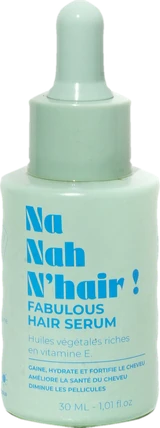
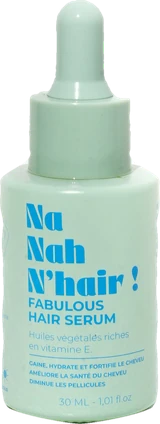
Modifications 66 et 67 : flacon Fabulous (photo sur fond blanc pour la fiche et la boutique, détourage fidèle ailleurs)
Claude-Session: https://claude.ai/code/session_01KwQkw9StVFPJQs6Mch67k4

diff --git a/na-nah-nhair/components/PhotoSlot.tsx b/na-nah-nhair/components/PhotoSlot.tsx
@@ -4,7 +4,10 @@ import { themeClasses } from "@/lib/theme-classes";
 
 // photo.file : nom de la photo dans assets/images/ ; si « responsive », versions générées par
 // scripts/preparer-photos.py dans public/images/produits/ (400, 800, 1200 px, WebP + JPG, format 4:5)
-type Photo = { file: string; alt: string; available: boolean; responsive?: string; cutout?: ProductTheme };
+// studio : photo carrée sur fond blanc pur (modification 66), versions studio-400…1400 dans public/images/produits/
+type Photo = { file: string; alt: string; available: boolean; responsive?: string; cutout?: ProductTheme; studio?: string };
+
+const STUDIO_WIDTHS = [400, 800, 1200, 1400];
 
 const WIDTHS = [400, 800, 1200];
 
@@ -33,6 +36,31 @@ export default function PhotoSlot({
       <div className={`relative overflow-hidden bg-white ${className}`}>
         {/* eslint-disable-next-line @next/next/no-img-element -- photo du back-office, servie telle quelle */}
         <img src={src} alt={photo.alt} loading={loading} className="absolute inset-0 h-full w-full object-contain" />
+      </div>
+    );
+  }
+
+  // Photo sur fond blanc pur dans le panneau blanc (modification 66) : image carrée remplissant la hauteur du
+  // panneau (côtés blancs rognés, invisibles sur le blanc), flacon à environ 80 % de la hauteur, centré
+  if (photo.available && photo.studio) {
+    const set = (ext: string) => STUDIO_WIDTHS.map((w) => `/images/produits/${photo.studio}-${w}.${ext} ${w}w`).join(", ");
+    return (
+      <div className={`relative overflow-hidden bg-white ${className}`}>
+        <picture>
+          <source type="image/webp" srcSet={set("webp")} sizes={sizes} />
+          <img
+            src={`/images/produits/${photo.studio}-800.jpg`}
+            srcSet={set("jpg")}
+            sizes={sizes}
+            width={1400}
+            height={1400}
+            alt={photo.alt}
+            loading={loading}
+            fetchPriority={priority ? "high" : "auto"}
+            decoding="async"
+            className="absolute inset-0 h-full w-full object-cover"
+          />
+        </picture>
       </div>
     );
   }

diff --git a/na-nah-nhair/lib/cutouts.ts b/na-nah-nhair/lib/cutouts.ts
@@ -3,7 +3,7 @@ import type { ProductTheme } from "@/lib/design-tokens";
 // Flacons détourés (fond transparent, modifications 40 et 51), générés par scripts/preparer-detoures.py.
 // Dimensions des fichiers fournis (version 3 du 26/10/2026, modification 55) : jamais agrandis.
 export const cutoutSize: Record<ProductTheme, { width: number; height: number }> = {
-  fabulous: { width: 465, height: 1245 },
+  fabulous: { width: 471, height: 1248 },
   miraculous: { width: 470, height: 1232 },
   luxurious: { width: 474, height: 1241 },
 };
@@ -15,8 +15,8 @@ export const cutoutSrcSet = (slug: ProductTheme) =>
 export const cutoutFallback = (slug: ProductTheme) => `/images/produits/${slug}-detoure-max.png`;
 
 // Premier écran de l'accueil : version de référence (24/10/2026) pour Luxurious (modification 51) ; Miraculous
-// et Fabulous remplacés par les fichiers des modifications 56 et 62 (jamais agrandis)
-export const heroWidths: Record<ProductTheme, readonly number[]> = { fabulous: [240, 465], miraculous: [240, 470], luxurious: [240, 480, 720] };
-export const heroHeight: Record<ProductTheme, number> = { fabulous: 643, miraculous: 629, luxurious: 640 };
+// et Fabulous remplacés par les fichiers des modifications 56 et 67 (jamais agrandis)
+export const heroWidths: Record<ProductTheme, readonly number[]> = { fabulous: [240, 471], miraculous: [240, 470], luxurious: [240, 480, 720] };
+export const heroHeight: Record<ProductTheme, number> = { fabulous: 636, miraculous: 629, luxurious: 640 };
 export const heroSrcSet = (slug: ProductTheme, ext: "webp" | "png") =>
   heroWidths[slug].map((w) => `/images/produits/${slug}-accueil-${w}.${ext} ${w}w`).join(", ");

diff --git a/na-nah-nhair/content/site.ts b/na-nah-nhair/content/site.ts
@@ -51,6 +51,9 @@ export type Product = {
   infosPrice: string;
   // cutout : flacon détouré affiché à la place de la photo à fond blanc (modification 40)
   photo: { file: string; alt: string; available: boolean; responsive?: string; cutout?: ProductTheme };
+  // Photo sur fond blanc pur pour les panneaux blancs de la fiche et de la boutique (modification 66) ;
+  // à défaut, ces panneaux affichent `photo`
+  panelPhoto?: { file: string; alt: string; available: boolean; studio: string };
   // Photo détourée (fond transparent) du premier écran de l'accueil (modification 22)
   cutout: { file: string; alt: string; available: boolean };
   personality: string;
@@ -140,6 +143,7 @@ export const products: Product[] = fr([
       available: true,
       cutout: "fabulous",
     },
+    panelPhoto: { file: "fabulous-fiche.jpg", alt: "Flacon Fabulous Hair Serum", available: true, studio: "fabulous-fiche" },
     cutout: { file: "fabulous.png", alt: "Flacon Fabulous Hair Serum", available: true },
     personality: "la fraîche, naturelle et spontanée.",
     iAm: "Je suis fraîche, naturelle et spontanée.",

diff --git a/na-nah-nhair/components/home/HeroBottles.tsx b/na-nah-nhair/components/home/HeroBottles.tsx
@@ -7,7 +7,8 @@ import { themeClasses } from "@/lib/theme-classes";
 // Trois flacons du premier écran (modification 22) : Fabulous à gauche, Miraculous au centre
 // (plus grand, plus haut), Luxurious à droite ; légèrement superposés, inclinés vers l'extérieur.
 const layout: Record<ProductTheme, { order: number; tilt: string; size: string; lift: string; delay: string }> = {
-  fabulous: { order: 0, tilt: "-rotate-[5deg]", size: "w-[27%]", lift: "mt-6", delay: "0s" },
+  // 27,3 % : nouveau fichier un peu plus large (modification 67), même hauteur que le précédent à 27 %
+  fabulous: { order: 0, tilt: "-rotate-[5deg]", size: "w-[27.3%]", lift: "mt-6", delay: "0s" },
   miraculous: { order: 1, tilt: "", size: "w-[33%] z-10 -mx-[3%]", lift: "", delay: "0.5s" },
   luxurious: { order: 2, tilt: "rotate-[5deg]", size: "w-[27%]", lift: "mt-6", delay: "1s" },
 };

diff --git a/na-nah-nhair/tests/e2e/accueil.spec.ts b/na-nah-nhair/tests/e2e/accueil.spec.ts
@@ -57,7 +57,9 @@ test("aucun lien interne cassé depuis l'accueil", async ({ page, request }) => 
 test("photos : flacons, pack et photos détourées fournis, plus aucun emplacement photo", async ({ page }) => {
   // Photos fournies (21/10/2026), textes alternatifs exacts (boutique)
   await page.goto("/boutique");
-  for (const name of ["Fabulous", "Miraculous", "Luxurious"])
+  // Fabulous : photo sur fond blanc (modification 66), texte alternatif « Flacon Fabulous Hair Serum »
+  await expect(page.locator('main img[alt="Flacon Fabulous Hair Serum"]').first()).toBeVisible();
+  for (const name of ["Miraculous", "Luxurious"])
     await expect(page.locator(`main img[alt="Flacon ${name} Hair Serum, sérum capillaire de 30 ml"]`)).toBeVisible();
   await page.goto("/");
   await expect(page.locator('main img[alt^="Pack des 3 soins"]')).toBeVisible();

diff --git a/na-nah-nhair/app/boutique/page.tsx b/na-nah-nhair/app/boutique/page.tsx
@@ -34,7 +34,7 @@ export default async function BoutiquePage() {
           return (
             <li key={p.slug} className={`${t.base} ${t.text} row-span-5 mb-3 grid grid-rows-subgrid rounded-3xl p-2 sm:mb-6 sm:rounded-[2rem] sm:p-3`}>
               <Link href={`/soins/${p.slug}`} className="block">
-                <PhotoSlot photo={p.photo} src={s.photoUrl} theme={p.slug} className="aspect-[4/5] rounded-[1.5rem]" sizes="(max-width: 640px) 50vw, 25vw" />
+                <PhotoSlot photo={p.panelPhoto ?? p.photo} src={s.photoUrl} theme={p.slug} className="aspect-[4/5] rounded-[1.5rem]" sizes="(max-width: 640px) 50vw, 25vw" />
               </Link>
               <div className="px-2 pt-2 sm:px-3 sm:pt-3">
                 <h2 className={`nom-produit max-sm:text-[1.75rem] ${t.name}`}>

diff --git a/na-nah-nhair/tests/e2e/admin.spec.ts b/na-nah-nhair/tests/e2e/admin.spec.ts
@@ -106,7 +106,7 @@ test("produits : prix, stock, épuisé, désactivation, photo", async ({ page })
   await expect(fab.getByRole("status")).toHaveText("Modifications enregistrées.");
   await page.goto("/soins/fabulous");
   // La photo du back-office remplace la photo fournie sur la fiche
-  const photo = page.locator('main img[alt="Flacon Fabulous Hair Serum, sérum capillaire de 30 ml"]').first();
+  const photo = page.locator('main img[alt^="Flacon Fabulous Hair Serum"]').first();
   await expect(photo).toBeVisible();
   await expect(photo).not.toHaveAttribute("src", /^\/images\/produits\//);
 

diff --git a/na-nah-nhair/app/soins/[slug]/page.tsx b/na-nah-nhair/app/soins/[slug]/page.tsx
@@ -56,7 +56,7 @@ export default async function ProductPage({ params }: { params: Promise<{ slug: 
       <div className={`${t.soft}`}>
         <div className="mx-auto grid max-w-6xl gap-6 px-4 py-6 sm:px-6 md:grid-cols-2 md:gap-10 md:py-16">
           <PhotoSlot
-            photo={p.photo}
+            photo={p.panelPhoto ?? p.photo}
             src={shop[p.slug].photoUrl}
             theme={p.slug}
             priority

diff --git a/na-nah-nhair/INFOS.md b/na-nah-nhair/INFOS.md
@@ -396,3 +396,10 @@ Ces décisions de la propriétaire de la marque complètent et remplacent les pa
 
 - Mise en production confirmée par la marque avec des éléments encore « À COMPLÉTER » (finis sur le site réel). Le contrôle de mise en ligne avertit sans bloquer (`--avertir` dans netlify.toml) ; le retirer une fois la liste vide.
 - Ancien site : branche Git `ancien-site` (commit 7dfa7d3) et archive ZIP.
+
+## 23. Flacon vert Fabulous (modifications 64, 66, 67, 02/11/2026)
+
+- Miraculous : « déterminée, ambitieuse et audacieuse » (modification 64).
+- Fiche Fabulous et carte de la boutique : photo sur fond blanc pur `assets/images/fabulous-fiche.jpg` (versions 400 à 1400 px), flacon à environ 80 % de la hauteur du panneau.
+- Flacon détouré `assets/images/fabulous.png` (471 x 1248) : premier écran de l accueil, « Quel soin est le tien ? », panier, image de partage, emails.
+- Miraculous et Luxurious : inchangés (le point facultatif de la modification 66 ne s applique pas : leurs fiches utilisent les flacons détourés, pas des photos).
